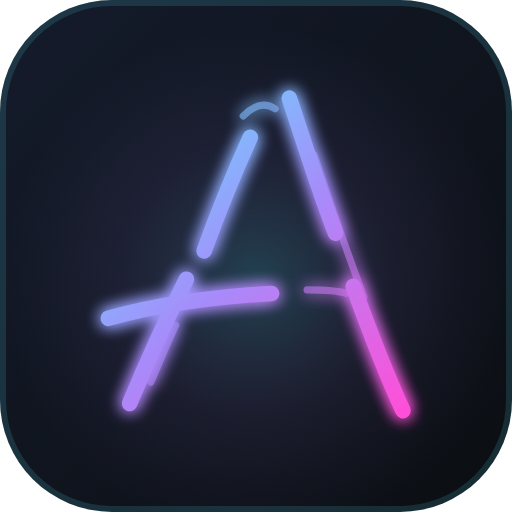
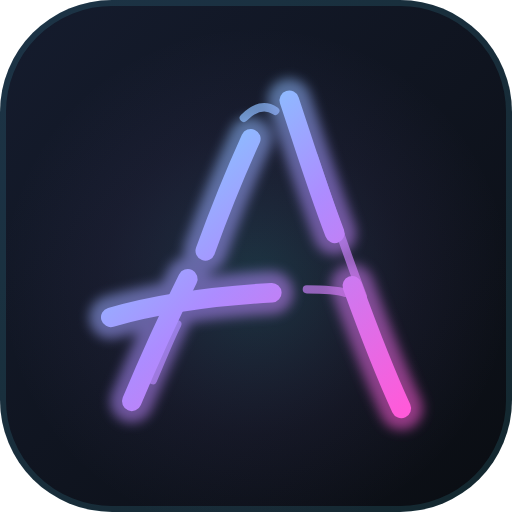
App instalado: ícone nítido e páginas na mesma janela
O que mudou de comportamento (de propósito):
- Ícone do app redesenhado sem borrar: traço nítido por cima e brilho numa camada separada; nos tamanhos pequenos (192 px, apple-touch, favicon) os riscos finos saem
- Com o Axis instalado como app, os cartões do painel abrem na mesma janela (sem a barra de endereço); no navegador comum continuam em nova aba
- No app, o portal da turma mostra ao professor um botão "← Painel" no topo

Testes ajustados: nenhum
SQL: nenhum

Changed region(s): [[0.1562, 0.125, 0.8438, 0.8438], [0.3125, 0.6562, 0.3438, 0.7188]]

diff --git a/professor/painel.html b/professor/painel.html
@@ -98,7 +98,7 @@
       </section>
       </div>
       <div class="pr-bloco" data-bloco="jogos" data-nome="Jogos Digitais" data-x="3" data-w="3" data-min="2">
-        <button type="button" class="pr-card turma-card cor-violeta" onclick="window.open('../turmas/jogos/plataforma.html', '_blank')">
+        <button type="button" class="pr-card turma-card cor-violeta" onclick="window.PortalSession.abrirPagina('../turmas/jogos/plataforma.html')">
           <span class="pr-card-icone" aria-hidden="true">
             <svg viewBox="0 0 24 24" fill="none" stroke="currentColor" stroke-width="2" stroke-linecap="round" stroke-linejoin="round"><line x1="6" x2="10" y1="12" y2="12"/><line x1="8" x2="8" y1="10" y2="14"/><line x1="15" x2="15.01" y1="13" y2="13"/><line x1="18" x2="18.01" y1="11" y2="11"/><rect width="20" height="12" x="2" y="6" rx="2"/></svg>
           </span>
@@ -106,7 +106,7 @@
         </button>
       </div>
       <div class="pr-bloco" data-bloco="sistemas" data-nome="Desenvolvimento de Sistemas" data-x="6" data-w="3" data-min="2">
-        <button type="button" class="pr-card turma-card cor-azul" onclick="window.open('../turmas/sistemas/plataforma.html', '_blank')">
+        <button type="button" class="pr-card turma-card cor-azul" onclick="window.PortalSession.abrirPagina('../turmas/sistemas/plataforma.html')">
           <span class="pr-card-icone" aria-hidden="true">
             <svg viewBox="0 0 24 24" fill="none" stroke="currentColor" stroke-width="2" stroke-linecap="round" stroke-linejoin="round"><rect width="20" height="14" x="2" y="3" rx="2"/><line x1="8" x2="16" y1="21" y2="21"/><line x1="12" x2="12" y1="17" y2="21"/></svg>
           </span>
@@ -126,7 +126,7 @@
       <!-- Aulas em slides a partir de um .md, pra projetar
            (professor/materiais.html, shared/slides-md.js). -->
       <div class="pr-bloco" data-bloco="materiais" data-nome="Criar Material" data-x="6" data-w="3" data-min="2">
-        <button type="button" class="pr-card pr-card-ferramenta cor-laranja" onclick="window.open('materiais.html', '_blank')">
+        <button type="button" class="pr-card pr-card-ferramenta cor-laranja" onclick="window.PortalSession.abrirPagina('materiais.html')">
           <span class="pr-card-icone" aria-hidden="true">
             <svg viewBox="0 0 24 24" fill="none" stroke="currentColor" stroke-width="2" stroke-linecap="round" stroke-linejoin="round"><path d="M2 3h20"/><path d="M21 3v11a2 2 0 0 1-2 2H5a2 2 0 0 1-2-2V3"/><path d="m7 21 5-5 5 5"/></svg>
           </span>
@@ -138,7 +138,7 @@
            pesquisas e links — professor/projetos.html). Só o professor: os
            dois somem pro substituto. -->
       <div class="pr-bloco" data-bloco="conhecimentos" data-nome="Conhecimentos" data-x="3" data-w="3" data-min="2">
-        <button type="button" class="pr-card pr-card-ferramenta cor-rosa" onclick="window.open('conhecimentos.html', '_blank')">
+        <button type="button" class="pr-card pr-card-ferramenta cor-rosa" onclick="window.PortalSession.abrirPagina('conhecimentos.html')">
           <span class="pr-card-icone" aria-hidden="true">
             <svg viewBox="0 0 24 24" fill="none" stroke="currentColor" stroke-width="2" stroke-linecap="round" stroke-linejoin="round"><path d="M12 7v14"/><path d="M3 18a1 1 0 0 1-1-1V4a1 1 0 0 1 1-1h5a4 4 0 0 1 4 4 4 4 0 0 1 4-4h5a1 1 0 0 1 1 1v13a1 1 0 0 1-1 1h-6a3 3 0 0 0-3 3 3 3 0 0 0-3-3z"/></svg>
           </span>
@@ -146,7 +146,7 @@
         </button>
       </div>
       <div class="pr-bloco" data-bloco="projetos" data-nome="Projetos" data-x="6" data-w="3" data-min="2">
-        <button type="button" class="pr-card pr-card-ferramenta cor-ciano" onclick="window.open('projetos.html', '_blank')">
+        <button type="button" class="pr-card pr-card-ferramenta cor-ciano" onclick="window.PortalSession.abrirPagina('projetos.html')">
           <span class="pr-card-icone" aria-hidden="true">
             <svg viewBox="0 0 24 24" fill="none" stroke="currentColor" stroke-width="2" stroke-linecap="round" stroke-linejoin="round"><path d="M20 20a2 2 0 0 0 2-2V8a2 2 0 0 0-2-2h-7.9a2 2 0 0 1-1.69-.9L9.6 3.9A2 2 0 0 0 7.93 3H4a2 2 0 0 0-2 2v13a2 2 0 0 0 2 2Z"/><path d="M8 10v4"/><path d="M12 10v2"/><path d="M16 10v6"/></svg>
           </span>

diff --git a/shared/session.js b/shared/session.js
@@ -143,5 +143,19 @@ window.PortalSession = (function () {
     if (sb) await sb.auth.signOut();
   }
 
-  return { client, getUser, requireUser, signIn, signOut, authEmailFromUsername, lembrarLogin };
+  // App instalado (manifest.json): roda numa janela própria, sem abas. Lá
+  // dentro, "abrir em nova aba" vira uma janela à parte com a barra de
+  // endereço (no Android, o Chrome por cima do app), então as páginas do
+  // próprio Axis abrem na mesma janela. No navegador comum, nova aba.
+  function appInstalado() {
+    return (window.matchMedia && (window.matchMedia('(display-mode: standalone)').matches
+      || window.matchMedia('(display-mode: window-controls-overlay)').matches))
+      || window.navigator.standalone === true;
+  }
+  function abrirPagina(url) {
+    if (appInstalado()) window.location.href = url;
+    else window.open(url, '_blank');
+  }
+
+  return { client, getUser, requireUser, signIn, signOut, authEmailFromUsername, lembrarLogin, appInstalado, abrirPagina };
 })();

diff --git a/shared/platform-core.js b/shared/platform-core.js
@@ -277,6 +277,7 @@
           <button id="btnLibras" title="Abrir o tradutor de Libras (VLibras)" aria-label="Abrir o tradutor de Libras">🤟</button>
         </div>
         <div id="sessionControl">
+          ${currentUser.role === 'professor' && window.PortalSession.appInstalado() ? `<a href="../../professor/painel.html" id="btnVoltarPainel" class="btn-voltar-painel" title="Voltar ao painel do professor">← Painel</a>` : ''}
           <span class="welcome-msg" id="txtWelcome">Bem-vindo(a), <b id="txtUserNom">--</b></span>
           <span class="ranking-badge" id="rankingBadge" style="display:none;"></span>
           <button id="btnLogout" class="btn-danger" style="padding:4px 8px; font-size:10px;">Sair</button>

diff --git a/shared/platform-core.css b/shared/platform-core.css
@@ -639,3 +639,12 @@ html[data-substituto] .aluno-nome-link{ pointer-events:none; text-decoration:non
 .rel-aluno-dim{ color:var(--ink-dim); font-size:10px; }
 .rel-aluno-ruim{ color:var(--blood-bright); font-weight:700; }
 .rel-aluno-meio{ color:var(--yellow); font-weight:700; }
+
+/* "← Painel" no topo do portal da turma: só pro professor, com o Axis
+   instalado como app (lá o portal abre na mesma janela do painel). */
+.btn-voltar-painel {
+  display: inline-flex; align-items: center; padding: 4px 10px; margin-right: 8px;
+  border: 1px solid currentColor; border-radius: 6px; font-size: 11px; font-weight: bold;
+  text-decoration: none; color: inherit; opacity: .85;
+}
+.btn-voltar-painel:hover { opacity: 1; }

diff --git a/README.md b/README.md
@@ -163,7 +163,7 @@ Anotações rápidas pra não esquecer detalhes de cada projeto: ideias, pesquis
 - **Dados:** tabelas `professor_projetos` e `professor_projeto_itens` (`sql/professor-projetos.sql`, também no setup completo). Sem as tabelas, salva só no navegador (`axis.projetos.v1`) e avisa.
 
 ### App instalável — `manifest.json` e ícone (`shared/assets/app/`)
-O portal pode ser instalado como aplicativo (Chrome/Edge: ícone de instalar na barra de endereço; Android: "Adicionar à tela inicial"; iPhone: Compartilhar → "Adicionar à Tela de Início"). O `manifest.json` fica na raiz, com caminhos relativos (o site roda numa subpasta do GitHub Pages): abre no login (`index.html`), em janela própria, com o atalho **Painel do Professor**. O ícone é o "A" em rabisco da marca, com o degradê ciano → violeta → rosa do logo: `icone.svg` (cantos arredondados) e `icone-maskable.svg` (fundo até a borda, letra dentro da zona segura, pro Android recortar no formato dele). Os PNGs (`icone-192/512`, `icone-maskable-192/512`, `apple-touch-icon` de 180 e `favicon-32`) são gerados a partir dos SVGs; mudou o desenho, gere de novo. O manifesto e os ícones estão ligados no login, no painel do professor, em Criar Material e nos portais das duas turmas (`<link rel="manifest">`, favicon, `apple-touch-icon` e `theme-color`). Não há service worker: o app instala, mas precisa de internet pra funcionar.
+O portal pode ser instalado como aplicativo (Chrome/Edge: ícone de instalar na barra de endereço; Android: "Adicionar à tela inicial"; iPhone: Compartilhar → "Adicionar à Tela de Início"). O `manifest.json` fica na raiz, com caminhos relativos (o site roda numa subpasta do GitHub Pages): abre no login (`index.html`), em janela própria, com o atalho **Painel do Professor**. O ícone é o "A" em rabisco da marca, com o degradê ciano → violeta → rosa do logo: `icone.svg` (cantos arredondados) e `icone-maskable.svg` (fundo até a borda, letra dentro da zona segura, pro Android recortar no formato dele). Os PNGs (`icone-192/512`, `icone-maskable-192/512`, `apple-touch-icon` de 180 e `favicon-32`) são gerados a partir dos SVGs; mudou o desenho, gere de novo. O manifesto e os ícones estão ligados no login, no painel do professor, em Criar Material e nos portais das duas turmas (`<link rel="manifest">`, favicon, `apple-touch-icon` e `theme-color`). Não há service worker: o app instala, mas precisa de internet pra funcionar. **Dentro do app instalado** não existem abas: "abrir em nova aba" viraria uma janela à parte com a barra de endereço. Por isso os cartões do painel usam `PortalSession.abrirPagina(url)` (`shared/session.js`): no app (`display-mode: standalone`), abre na mesma janela; no navegador comum, em nova aba como antes. No app, o portal da turma mostra ao professor um botão **← Painel** no topo, pra voltar. Os ícones (`icone.svg`, `icone-maskable.svg` e os PNGs) têm traço nítido com o brilho numa camada separada por baixo; nos tamanhos pequenos (192 px, apple-touch, favicon) os riscos finos de acabamento saem, pra não virar ruído.
 
 ### Identidade — Supabase Auth (`shared/session.js`)
 Login não é mais uma comparação de senha em array JS no navegador: cada aluno/professor é uma conta real em `auth.users`, criada por `scripts/migrate-users-to-auth.mjs` (rodar uma vez, localmente, com a `service_role key` — nunca no repositório). A tela de login (`index.html`) continua pedindo só o username de sempre + a mesma senha de sempre; por baixo, o código completa o e-mail interno que o Supabase Auth exige (`<username>@aluno.portal.local`, nunca exposto ao aluno).
